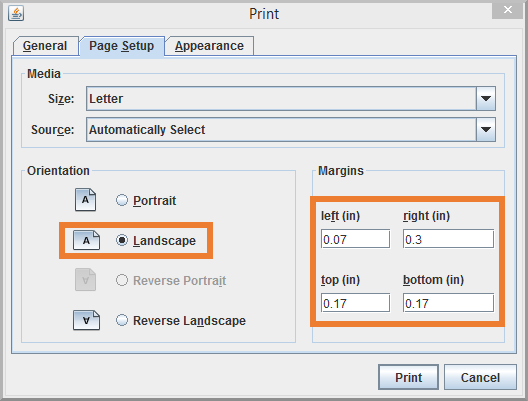
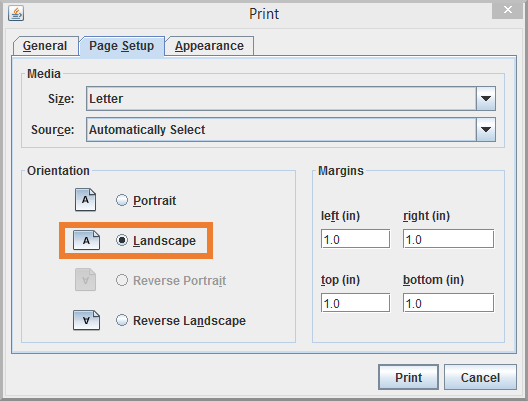
Updated help module
~ New printing tutorial image to reflect that margins no longer need to
be altered

Changed region(s): [[0.5758, 0.4788, 0.9697, 0.8379], [0.7576, 0.5686, 0.7879, 0.6284]]

diff --git a/src/core/help/PrintResultsHelp.java b/src/core/help/PrintResultsHelp.java
@@ -45,14 +45,9 @@ public class PrintResultsHelp extends HelpPanel
         addSpacing();
         
         // Add step 3 : Click toolbar button
-        step3 = "Manually update page orientation and margins to specified values";
+        step3 = "Manually update page orientation to \"Landscape\"";
         iconPath3 = getIconPath("Print-S3.png");
         addStep(step3);
-        addBody("Orentation: Landscape");
-        addBody("Left Margin: 0.07");
-        addBody("Right Margin: 0.3");
-        addBody("Top/Bottom Margin: 0.17");
-        addSpacing();
         addStep(new ImageIcon(iconPath3));
         addSpacing();
     }
